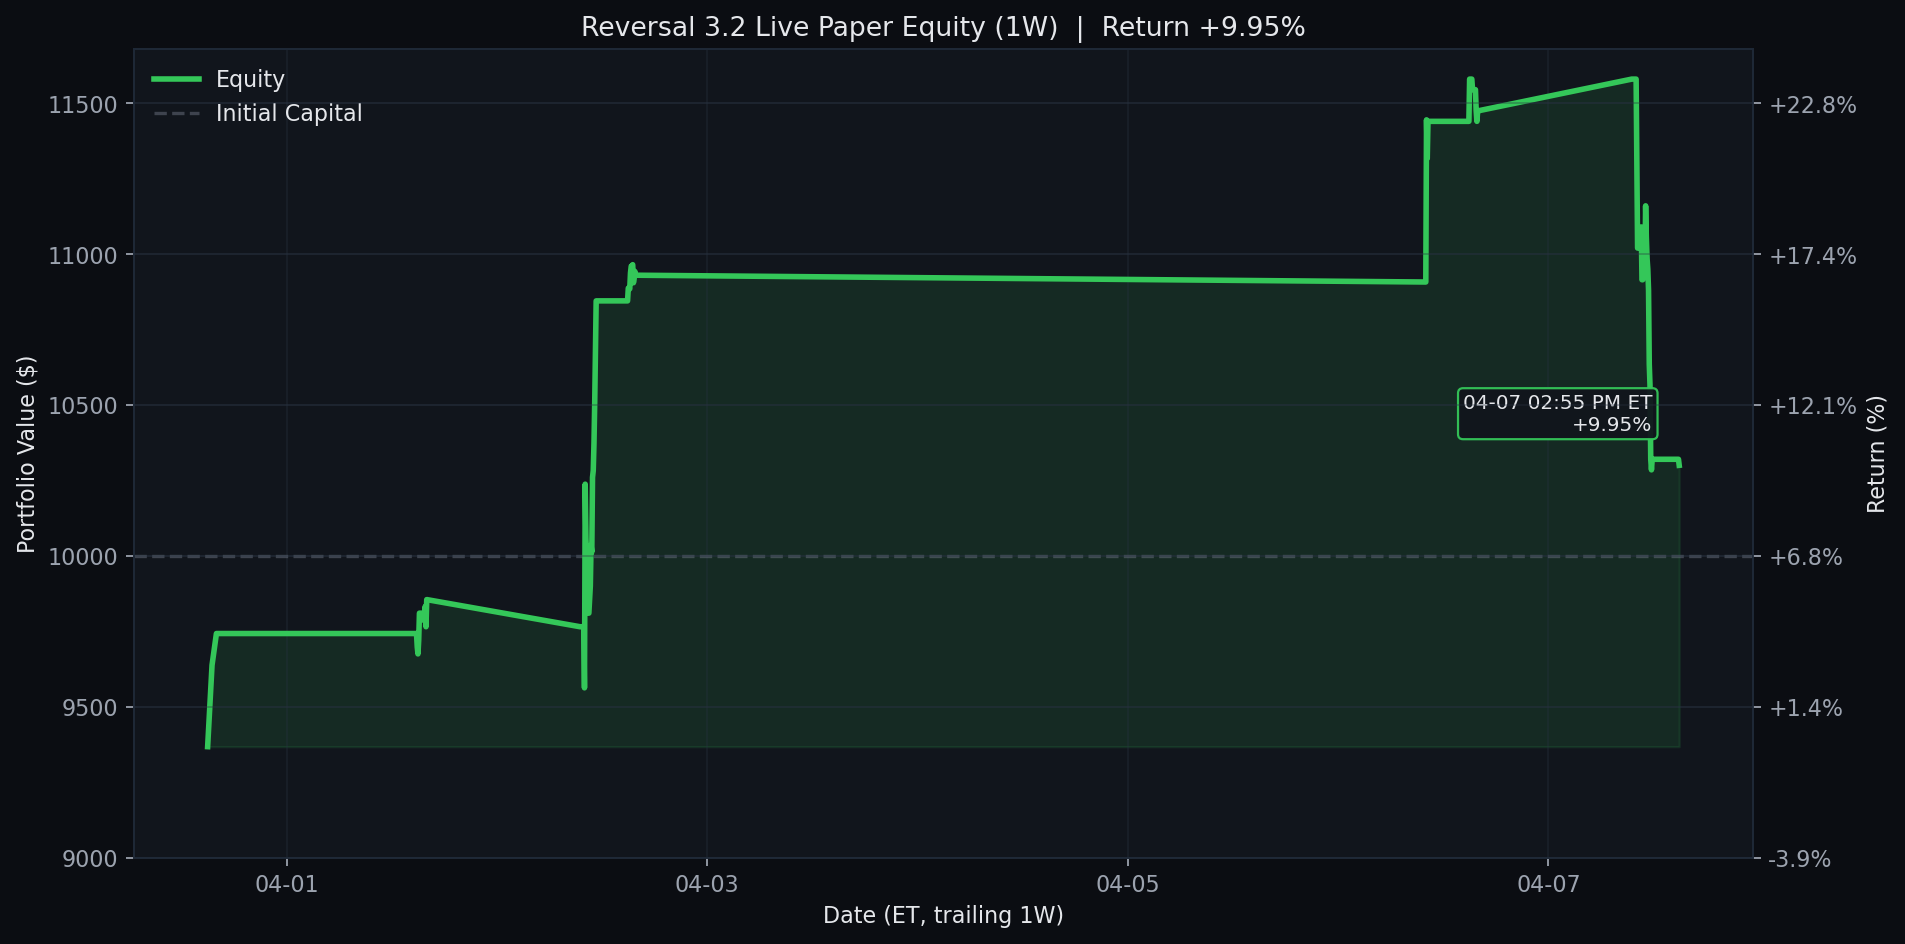
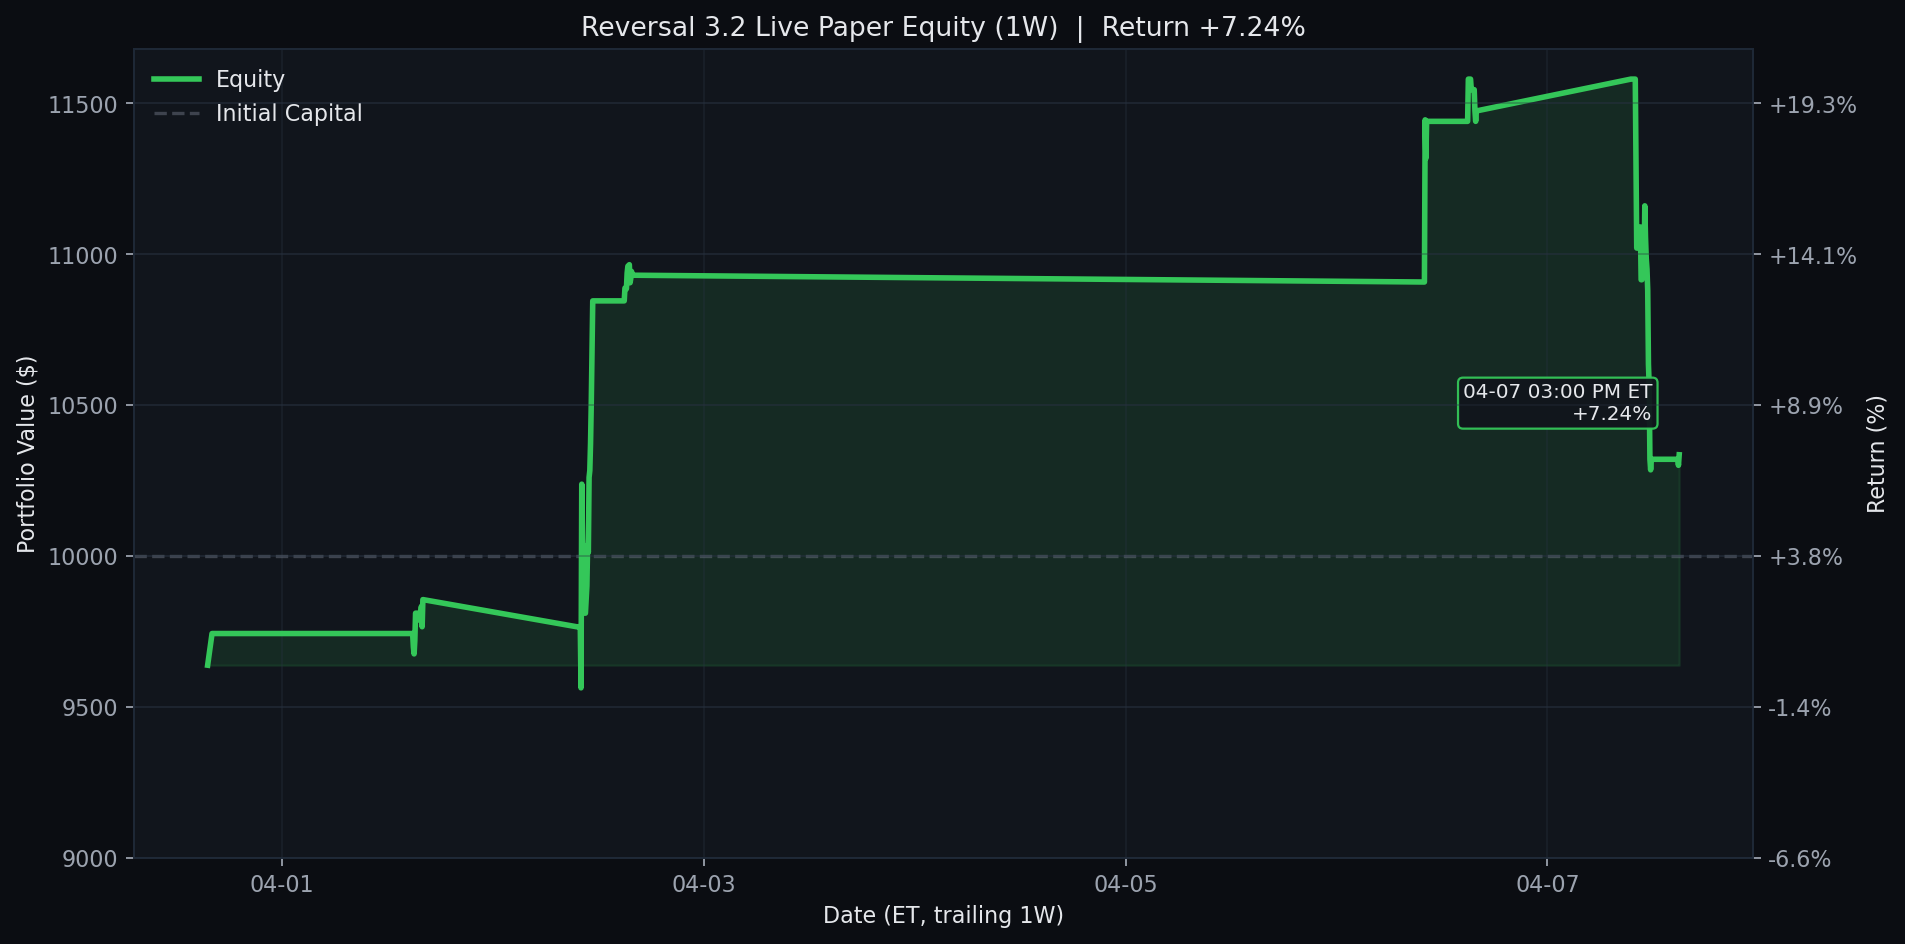
Update Reversal 3.2 live paper test 2026-04-07 15:00 ET

diff --git a/results/reversal_3_2_live/README.md b/results/reversal_3_2_live/README.md
@@ -1,6 +1,6 @@
 # Reversal 3.2 Live Paper Test
 
-Last updated (ET): `2026-04-07 14:55:00 EDT`
+Last updated (ET): `2026-04-07 15:00:05 EDT`
 Last processed slot: `entry_1500`
 
 ## Active Configuration
@@ -20,16 +20,16 @@ Last processed slot: `entry_1500`
 ## Portfolio Snapshot
 
 - Cash: `$5,640.00`
-- Equity: `$10,300.00`
+- Equity: `$10,335.00`
 - Realized PnL: `$320.00`
-- Unrealized PnL: `$-20.00`
+- Unrealized PnL: `$15.00`
 - Open positions: `1`
 
 ## Open Positions
 
 ```text
 ticker     contract_symbol entry_trade_date  business_days_held  contracts  cash_spent  current_position_value  entry_option_price  current_option_price  entry_spot  current_spot  unrealized_pnl  unrealized_return_pct  success_rate  matched_signals  current_drop_pct  entry_iv_pct  current_iv_pct  rolling_sigma_20d_pct
-  TSLA TSLA260515C00340000       2026-04-07                   0          2      4680.0                  4660.0                23.4                  23.3      340.83        339.26           -20.0                  -0.43         100.0               13               3.4         51.95           53.35                  42.33
+  TSLA TSLA260515C00340000       2026-04-07                   0          2      4680.0                  4695.0                23.4                 23.48      340.83        340.49            15.0                   0.32         100.0               13               3.4         51.95           52.41                  42.33
 ```
 
 ## Today's Closed Trades (2026-04-07)
@@ -43,24 +43,25 @@ ticker    contract_symbol entry_trade_date_et exit_trade_date_et  entry_option_p
 
 ```text
 ticker  success_rate_%  matched_signals  current_drop_%  target_rebound_$  target_price  rolling_sigma_20d_%  call_candidate
-  REGN           96.77               31            1.13              6.02        760.46                25.24            True
-  MRVL           96.15               26            1.89              1.45        108.89                70.84            True
-  NFLX           94.87               39            0.60              0.41         98.75                26.96            True
-  SBUX           94.59               37            0.54              0.36         94.63                40.32            True
-  NVDA           91.67               24            1.49              1.85        176.85                33.70            True
-  MPWR           91.43               35            1.05              8.65       1176.32                51.99            True
-  UPRO           90.91               22            2.48              1.75         99.99                53.86            True
-  CDNS           90.00               40            1.08              2.11        278.49                25.26            True
-  COST           90.00               10            1.29              9.19       1014.61                13.04            True
+  TSLA          100.00               13            3.54              8.74        349.08                42.33            True
+  REGN           96.97               33            0.93              4.99        760.90                25.24            True
+  MRVL           96.55               29            1.50              1.15        109.02                70.84            True
+  NFLX           94.87               39            0.58              0.40         98.76                26.96            True
+  NVDA           92.00               25            1.39              1.73        176.90                33.70            True
+  MPWR           91.43               35            1.05              8.67       1176.31                51.99            True
+  UPRO           90.91               22            2.36              1.67        100.03                53.86            True
+  CDNS           90.24               41            1.05              2.04        278.51                25.26            True
+  COST           90.00               10            1.28              9.13       1014.63                13.04            True
   FAST           88.89               18            1.57              0.50         45.65                20.98            True
-  ORLY           88.24               34            0.77              0.49         91.92                23.11            True
-   KDP           88.24               17            0.80              0.14         25.64                20.32            True
+  PCAR           88.24               34            0.82              0.68        118.03                21.97            True
+  ORLY           88.24               34            0.79              0.51         91.91                23.11            True
 ```
 
 ## Recent Events
 
 ```text
                     timestamp_et        slot   event_type                                                                                                                                                                           detail
+2026-04-07T15:00:05.890204-04:00  entry_1500 slot_skipped                                                                                                                                                  {"reason": "already_processed"}
 2026-04-07T14:55:00.887138-04:00  entry_1500 slot_skipped                                                                                                                                                  {"reason": "already_processed"}
 2026-04-07T14:50:04.918653-04:00  entry_1500        entry {"allocated_cash": 4680.0, "contract_symbol": "TSLA260515C00340000", "contracts": 2, "entry_option_price": 23.4, "matched_signals": 13, "success_rate": 100.0, "ticker": "TSLA"}
 2026-04-07T14:40:00.896832-04:00 manage_1430 slot_skipped                                                                                                                                                  {"reason": "already_processed"}
@@ -70,7 +71,6 @@ ticker  success_rate_%  matched_signals  current_drop_%  target_rebound_$  targe
 2026-04-07T14:10:00.879771-04:00 manage_1400 slot_skipped                                                                                                                                                  {"reason": "already_processed"}
 2026-04-07T14:05:03.892395-04:00 manage_1400 slot_skipped                                                                                                                                                  {"reason": "already_processed"}
 2026-04-07T14:00:04.896209-04:00 manage_1400 slot_skipped                                                                                                                                                  {"reason": "already_processed"}
-2026-04-07T13:55:00.552170-04:00 manage_1400 slot_skipped                                                                                                                                                  {"reason": "already_processed"}
 ```
 
 ## Equity Curves
@@ -80,20 +80,20 @@ Each chart is generated from the same live equity series with no-lookahead marks
 <details>
 <summary><strong>1D</strong></summary>
 
-![Reversal 3.2 Live Equity 1D](../../assets/reversal_3_2_live_equity_1d.png?v=20260407145500)
+![Reversal 3.2 Live Equity 1D](../../assets/reversal_3_2_live_equity_1d.png?v=20260407150005)
 
 </details>
 
 <details open>
 <summary><strong>1W</strong></summary>
 
-![Reversal 3.2 Live Equity 1W](../../assets/reversal_3_2_live_equity.png?v=20260407145500)
+![Reversal 3.2 Live Equity 1W](../../assets/reversal_3_2_live_equity.png?v=20260407150005)
 
 </details>
 
 <details>
 <summary><strong>1M</strong></summary>
 
-![Reversal 3.2 Live Equity 1M](../../assets/reversal_3_2_live_equity_1m.png?v=20260407145500)
+![Reversal 3.2 Live Equity 1M](../../assets/reversal_3_2_live_equity_1m.png?v=20260407150005)
 
 </details>

diff --git a/README.md b/README.md
@@ -3,8 +3,8 @@
 <!-- reversal-3.2-live:start -->
 ## Reversal 3.2 Live Paper Test
 
-- Last updated (ET): `2026-04-07 14:55:00 EDT`
-- Equity: `$10,300.00` | Realized: `$320.00` | Unrealized: `$-20.00` | Open positions: `1`
+- Last updated (ET): `2026-04-07 15:00:05 EDT`
+- Equity: `$10,335.00` | Realized: `$320.00` | Unrealized: `$15.00` | Open positions: `1`
 - Today closed trades: `1`
 - Current slot: `entry_1500`
 - Universe: `qqq_plus_leverage_etfs`
@@ -14,27 +14,27 @@
 
 ```text
 ticker     contract_symbol  contracts  cash_spent  current_position_value  current_option_price  unrealized_pnl  unrealized_return_pct  business_days_held
-  TSLA TSLA260515C00340000          2      4680.0                  4660.0                  23.3           -20.0                  -0.43                   0
+  TSLA TSLA260515C00340000          2      4680.0                  4695.0                 23.48            15.0                   0.32                   0
 ```
 
 <details>
 <summary><strong>1D</strong></summary>
 
-![Reversal 3.2 Live Equity 1D](assets/reversal_3_2_live_equity_1d.png?v=20260407145500)
+![Reversal 3.2 Live Equity 1D](assets/reversal_3_2_live_equity_1d.png?v=20260407150005)
 
 </details>
 
 <details open>
 <summary><strong>1W</strong></summary>
 
-![Reversal 3.2 Live Equity 1W](assets/reversal_3_2_live_equity.png?v=20260407145500)
+![Reversal 3.2 Live Equity 1W](assets/reversal_3_2_live_equity.png?v=20260407150005)
 
 </details>
 
 <details>
 <summary><strong>1M</strong></summary>
 
-![Reversal 3.2 Live Equity 1M](assets/reversal_3_2_live_equity_1m.png?v=20260407145500)
+![Reversal 3.2 Live Equity 1M](assets/reversal_3_2_live_equity_1m.png?v=20260407150005)
 
 </details>
 
